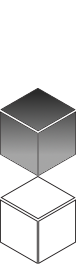
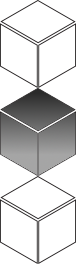
Level Select buttons can only be pressed when their page is active.

Changed region(s): [[0.0, 0.0, 1.0, 0.3333], [0.6842, 0.2727, 0.8684, 0.303], [0.1316, 0.2727, 0.3158, 0.303]]

diff --git a/Crystallography/Crystallography/LevelSelectScreen.cs b/Crystallography/Crystallography/LevelSelectScreen.cs
@@ -19,8 +19,8 @@ namespace Crystallography
 		Label StatsTitleText;
 		Label LevelNumberText;
 		Label LevelScoreText;
-		Label LevelTimeText;
-		Label LevelGradeText;
+//		Label LevelTimeText;
+//		Label LevelGradeText;
 		
 		SpriteTile StatFramesImg;
 		SpriteTile BlackBlock1;
@@ -37,11 +37,19 @@ namespace Crystallography
 			SelectedLevel = 0;
 			MenuSystem = pMenuSystem;
 			
+			var pages = FMath.Ceiling(GameScene.TOTAL_LEVELS / (float)LevelPage.ITEMS_PER_PAGE);
+			
 			Panels = new List<Node>{
-				new LevelPage(0),
-				new LevelPage(1),
-				new LevelPage(2)
+//				new LevelPage(0),
+//				new LevelPage(1),
+//				new LevelPage(2)
 			};
+			
+			for (int i=0; i < pages; i++) {
+				Panels.Add( new LevelPage(i) );
+				(Panels[i] as LevelPage).Disable();
+			}
+			(Panels[0] as LevelPage).Enable();
 			
 			this.SwipePanels = new SwipePanels(Panels) {
 				Width = 567.0f,
@@ -151,6 +159,22 @@ namespace Crystallography
 			LevelSelectItem.LevelSelectionDetected += HandleLevelSelectItemLevelSelectionDetected;
 			BackButton.ButtonUpAction += HandleBackButtonButtonUpAction;
 			PlayButton.ButtonUpAction += HandlePlayButtonButtonUpAction;
+			this.SwipePanels.OnSwipeComplete += HandleSwipePanelshandleOnSwipeComplete;
+//			this.SwipePanels.OnSwipeStart += HandleSwipePanelshandleOnSwipeStart;
+		}
+
+//		void HandleSwipePanelshandleOnSwipeStart (object sender, EventArgs e)
+		
+
+		void HandleSwipePanelshandleOnSwipeComplete (object sender, EventArgs e)
+		{
+			if (this.SwipePanels.LeftPage != null) {
+				(this.SwipePanels.LeftPage as LevelPage).Disable();
+			}
+			if (this.SwipePanels.RightPage != null) {
+				(this.SwipePanels.RightPage as LevelPage).Disable();
+			}
+			(this.SwipePanels.ActivePage as LevelPage).Enable();
 		}
 		
 		public override void OnExit ()
@@ -189,7 +213,7 @@ namespace Crystallography
 	// HELPER CLASSES =-=-=-=-=-=-=-=-=-=-=-=-=-=-=-=-=-=-=-=-=-=-=-=-=-=-=-=-=-=-=-=-=-=-=-=-=-=-=-=-=-=-=-=-=-=-=-=-=-=-=-=-=-=-=-=-=-=-=-=-=-=
 	
 	public class LevelPage : Node {
-		static readonly int ITEMS_PER_PAGE = 12;
+		public static readonly int ITEMS_PER_PAGE = 12;
 		static float Width = 567.0f;
 		static float Height = 396.0f;
 		public List<LevelSelectItem> Items {get; private set;}
@@ -213,11 +237,29 @@ namespace Crystallography
 			}
 		}
 		
+		// OVERRIDES ------------------------------------------------------------------------------------------------------------------------------
+		
 		public override void OnExit ()
 		{
 			base.OnExit ();
 			Items.Clear();
 		}
+		
+		// METHODS --------------------------------------------------------------------------------------------------------------------------------
+		
+		public void Enable() {
+			foreach (LevelSelectItem item in Items ) {
+				item.Button.on = true;
+			}
+		}
+		
+		public void Disable() {
+			foreach (LevelSelectItem item in Items ) {
+				item.Button.on = false;
+			}
+		}
+		
+		// DESTRUCTOR -----------------------------------------------------------------------------------------------------------------------------
 #if DEBUG
 		~LevelPage() {
 			Console.WriteLine(GetType().ToString() + " " + "Deleted");

diff --git a/Crystallography/Crystallography/SwipePanels.cs b/Crystallography/Crystallography/SwipePanels.cs
@@ -17,6 +17,9 @@ namespace Crystallography
 		
 		public float Width {get; set;}
 		
+		public event EventHandler OnSwipeStart;
+		public event EventHandler OnSwipeComplete;
+		
 		new public Vector2 Position {
 			get {return base.Position;}
 			set {
@@ -32,6 +35,10 @@ namespace Crystallography
 				}
 			}
 		}
+		
+		public Node ActivePage {get {return AnchorPoints[1].Node;} }
+		public Node LeftPage   {get {return AnchorPoints[0].Node;} }
+		public Node RightPage  {get {return AnchorPoints[2].Node;} }
 		
 		// CONSTRUCTOR --------------------------------------------------------------------------------------------------------------
 		
@@ -109,6 +116,15 @@ namespace Crystallography
 				} );
 				point.Node.ScheduleUpdate(0);
 			}
+			Sequence sequence = new Sequence();
+			sequence.Add( new DelayTime(0.35f) );
+			sequence.Add ( new CallFunc( () => {
+				EventHandler handler = OnSwipeComplete;
+				if ( handler != null ) {
+					handler( this, null );
+				}
+			} ) );
+			this.RunAction(sequence);
 		}
 		
 		void HandleInputManagerInstanceTouchDownDetected (object sender, SustainedTouchEventArgs e) {
@@ -132,6 +148,7 @@ namespace Crystallography
 		}
 		
 		void HandleInputManagerInstanceTouchJustDownDetected (object sender, BaseTouchEventArgs e) {
+			this.StopAllActions();
 			TouchVelocity = 0.0f;
 			TouchStartPosition = e.touchPosition;
 			TouchPosition = TouchStartPosition.Xy;
@@ -141,6 +158,10 @@ namespace Crystallography
 				}
 				point.Node.StopAllActions();
 			}
+			EventHandler handler = OnSwipeStart;
+				if ( handler != null ) {
+					handler( this, null );
+				}
 		}
 		
 		// OVERRIDES ---------------------------------------------------------------------------------------------------------------------

diff --git a/Crystallography/Crystallography/MenuSystemScene.cs b/Crystallography/Crystallography/MenuSystemScene.cs
@@ -68,14 +68,11 @@ namespace Crystallography
 				break;
 			case ("Title"):
 				Screen = new TitleScreen(this);
-//				UISystem.SetScene( new Crystallography.UI.SplashScene() );
 				break;
 			case ("Menu"):
 				Screen = new MainMenuScreen(this);
-//				UISystem.SetScene ( new Crystallography.UI.MenuScene() );
 				break;
 			case ("Level Select"):
-//				UISystem.SetScene ( new Crystallography.UI.LevelSelectScene() );
 				Screen = new LevelSelectScreen(this);
 				break;
 			case ("Credits"):
@@ -85,7 +82,6 @@ namespace Crystallography
 				Screen = new InstructionsScreen(this);
 				break;
 			default:
-//				UISystem.SetScene ( new Crystallography.UI.SplashScene() );
 				break;
 			}
 			this.AddChild(Screen);
